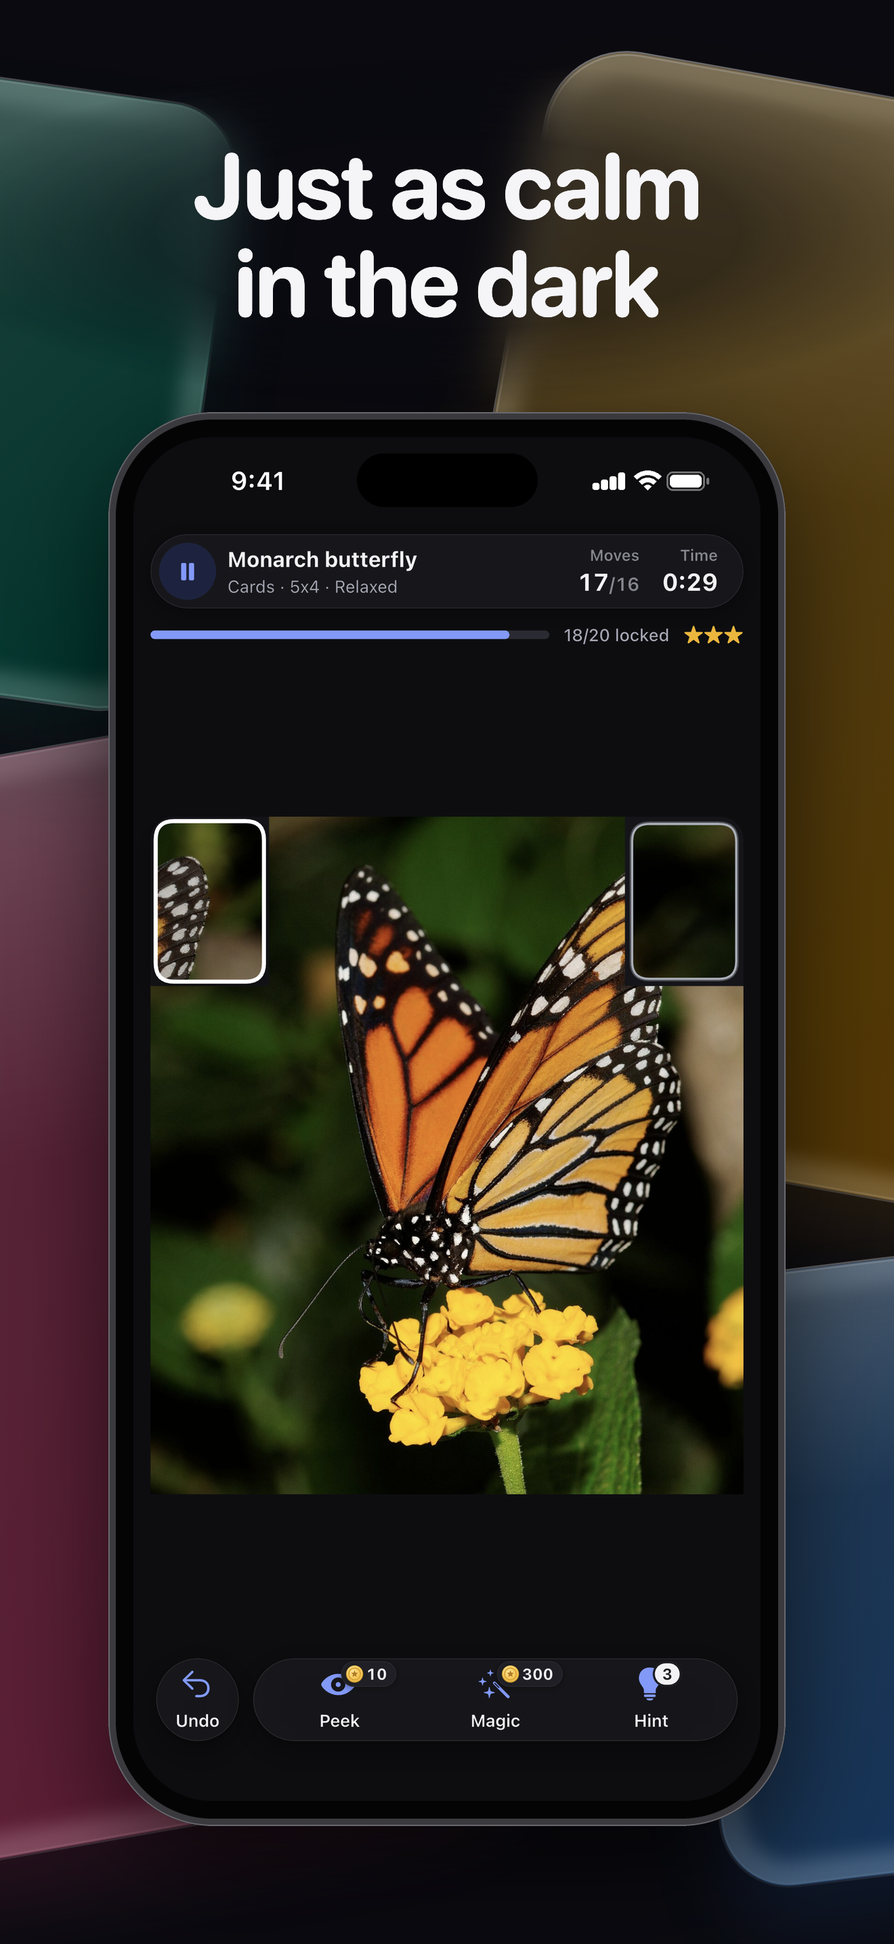
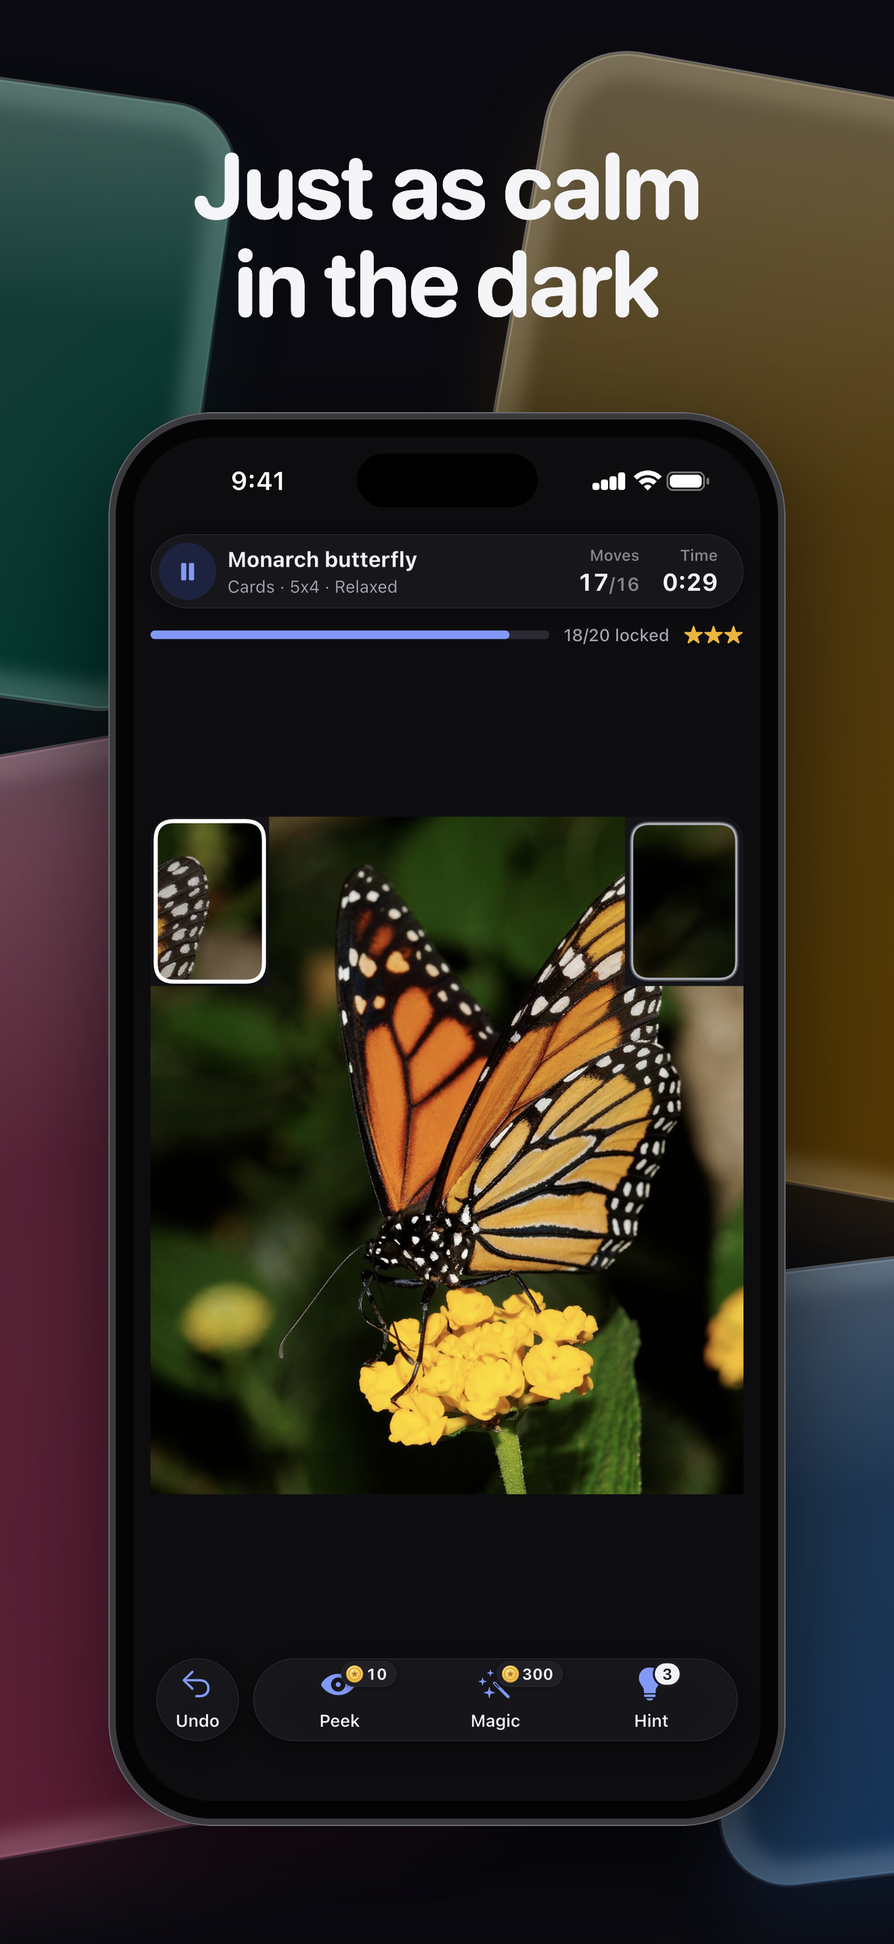
Store screenshots tell one story: new hero, Painting and giant boards, VIP as a benefit
The ten headlines now read as one text: Swap cards. Reveal the picture. / Thousands of pictures /
A new picture every day / One picture, four ways to cut it / Bring the colour back, card by card /
Giant boards of up to 300 cards / Puzzle your own photos / Quests and world-day events / Open every
pack with VIP / Just as calm in the dark.

- New captures in store_screenshots_test: 25_hero (Painted lady, 20 of 24 locked, two cards to
  swap), 26_painting (Monet's chrysanthemums, colour in the middle, grey around), 27_giant
  (Colourful Houses zoomed in with the overview map; the guest gets the pack's tickets) and
  28_library_more (locked packs for the VIP slide). CJW_STORE_ONLY=25_hero,... re-takes just those.
- Dropped the leaderboard (off-message for a calm game) and "Fewer moves, more stars" (a scoring
  rule); the finale keeps the dark Monarch, which slide 1 no longer uses.
- The frosted halo behind the headlines is gone (its blurred shape looked like a white blob).

Not uploaded to App Store Connect yet.

Changed region(s): [[0.5591, 0.031, 0.9629, 0.2172], [0.0932, 0.031, 0.2795, 0.1862]]

diff --git a/integration_test/store_screenshots_test.dart b/integration_test/store_screenshots_test.dart
@@ -25,6 +25,8 @@ import 'package:carden/features/game/board_widget.dart';
 import 'package:carden/game/board.dart';
 import 'package:carden/router.dart';
 import 'package:carden/state/auth.dart';
+import 'package:carden/state/catalog.dart';
+import 'package:carden/state/profile.dart';
 import 'package:carden/state/settings.dart';
 import 'package:carden/state/rewards.dart';
 import 'package:carden/state/unlocks.dart';
@@ -44,6 +46,13 @@ const modesPuzzle = 'p-00df45e91273'; // Tropical Beaches: Bora Bora lagoon
 const hexPuzzle = 'p-06ae2d7ad942'; // Sunsets: Key West sunset
 const galleryPack = 'pack-butterflies';
 
+/// The glass set (tools/store/compose_glass.py): a bright hero for slide 1, a Painting board for
+/// slide 5 (an Impressionist painting, so the colour coming back is the point), and a giant board
+/// of the real Giant pack for slide 6 (the guest gets the pack's tickets and unlocks it).
+const brightHeroPuzzle = 'p-e667552c4e66'; // Butterflies: Painted lady butterfly
+const paintingPuzzle = 'p-2f9f0b647f9f'; // Impressionists: Monet chrysanthemums
+const giantPack = 'pack-colourful-houses';
+
 /// Past days of the current daily month solved before the calendar capture
 /// (stars on their tiles). Ids are `daily-YYYY-MM-DD`.
 const dailyDaysToSolve = [1, 3, 6, 8, 10];
@@ -60,6 +69,11 @@ const theme = String.fromEnvironment('CJW_STORE_THEME', defaultValue: 'dark');
 /// (and their two captures) on a rerun, so live Storage gets no duplicates.
 const skipUpload = bool.fromEnvironment('CJW_STORE_SKIP_UPLOAD');
 const suffix = theme == 'light' ? '_light' : '';
+
+/// `--dart-define=CJW_STORE_ONLY=25_hero,27_giant` re-takes only those glass-set captures (25-28)
+/// after onboarding and leaves every other file as it is: a quick rerun for one slide.
+const only = String.fromEnvironment('CJW_STORE_ONLY');
+bool want(String name) => only.isEmpty || only.split(',').contains(name);
 
 Future<void> settle(WidgetTester tester, [int ms = 1500]) async {
   // The app has infinite animations (shimmer, pulses), so pump for a fixed time.
@@ -304,8 +318,8 @@ void main() {
 
   /// Opens a picture's difficulty screen, clears an earlier board of it,
   /// picks [mode] and [tier] and starts the game.
-  Future<void> startGame(WidgetTester tester, String puzzleId, String mode, String tier, {String? difficultyShot}) async {
-    await push(tester, '/play/$puzzleId', ms: 3500);
+  Future<void> startGame(WidgetTester tester, String puzzleId, String mode, String tier, {String? difficultyShot, bool painting = false}) async {
+    await push(tester, '/play/$puzzleId${painting ? '?painting=1' : ''}', ms: 3500);
     if (await tapIfShown(tester, 'Discard progress', ms: 900)) {
       await tapText(tester, 'Discard', ms: 1500);
     }
@@ -318,6 +332,10 @@ void main() {
     if (difficultyShot != null) await shot(tester, difficultyShot);
     await tester.tap(find.textContaining('Play'), warnIfMissed: false);
     await settle(tester, 6000);
+    // Giant pictures are 4096 px: the full-size download and decode take a moment longer.
+    for (var i = 0; i < 30 && boardFinder().evaluate().isEmpty; i++) {
+      await settle(tester, 500);
+    }
     await tapIfShown(tester, 'Got it');
     expect(boardFinder(), findsOneWidget, reason: 'board for $puzzleId $mode $tier');
   }
@@ -381,7 +399,77 @@ void main() {
       await tester.tapAt(const Offset(220, 80));
       await settle(tester, 1200);
     }
-    await shot(tester, '01_home');
+    if (only.isEmpty) await shot(tester, '01_home');
+
+    // Glass set, slide 1: a bright picture nearly whole on a 16-card board (few stray groups form
+    // while the rest goes home): one card loose and selected, one fused pair.
+    if (want('25_hero')) {
+      try {
+        await startGame(tester, brightHeroPuzzle, 'Cards', 'Relaxed');
+        final t = board(tester).tiling;
+        int at(int row, int col) => row * t.cols + col;
+        final pair = [at(t.rows - 2, t.cols - 2), at(t.rows - 2, t.cols - 1)];
+        final open = {at(1, 0), ...pair};
+        for (var round = 0; round < 3; round++) {
+          await lockAllBut(tester, open);
+        }
+        await buildGroup(tester, pair);
+        await selectOne(tester);
+        await shot(tester, '25_hero');
+        await saveAndQuit(tester);
+      } catch (e) {
+        await binding.takeScreenshot('zz_diag_hero');
+        await go(tester, '/home', ms: 2000);
+      }
+    }
+
+    // Glass set, slide 5: Painting on Monet's chrysanthemums, the middle in colour, the rest grey.
+    if (want('26_painting')) {
+      try {
+        await startGame(tester, paintingPuzzle, 'Cards', 'Medium', painting: true);
+        await lockMiddle(tester, (board(tester).cells * 0.6).round());
+        await shot(tester, '26_painting');
+        await saveAndQuit(tester);
+      } catch (e) {
+        await binding.takeScreenshot('zz_diag_painting');
+        await go(tester, '/home', ms: 2000);
+      }
+    }
+
+    // Glass set, slide 6: a giant board of the real Giant pack, its middle assembled, zoomed in one
+    // step so the overview map shows in the corner.
+    if (want('27_giant')) {
+      try {
+        final container = ProviderScope.containerOf(tester.element(find.byType(MaterialApp)));
+        final pack = (await container.read(packsProvider.future)).firstWhere((p) => p.id == giantPack);
+        final profile = container.read(profileProvider.notifier);
+        await profile.addTickets(pack.priceTickets, reason: 'qa:store-giant');
+        await settle(tester, 800);
+        await profile.unlockPack(pack);
+        final pictures = (await container.read(allPuzzlesProvider.future)).where((p) => p.packId == giantPack).toList();
+        await startGame(tester, pictures.first.id, 'Cards', 'Large');
+        await lockMiddle(tester, (board(tester).cells * 0.45).round());
+        await buildAnyGroup(tester);
+        await tester.tap(find.byKey(const ValueKey('zoom-in')), warnIfMissed: false);
+        await settle(tester, 1500);
+        await shot(tester, '27_giant');
+        await saveAndQuit(tester);
+      } catch (e) {
+        await binding.takeScreenshot('zz_diag_giant');
+        await go(tester, '/home', ms: 2000);
+      }
+    }
+    await go(tester, '/home', ms: 2000);
+    if (only.isNotEmpty) {
+      if (want('28_library_more')) {
+        await go(tester, '/library', ms: 3500);
+        await tester.drag(find.byType(Scrollable).first, const Offset(0, -900));
+        await settle(tester, 3000);
+        await shot(tester, '28_library_more');
+      }
+      return;
+    }
+
 
     // Hero: the Monarch on a 12-card board, mostly placed, one fused group,
     // one card lifted. Then finish it (pack progress, quest progress).
@@ -479,6 +567,12 @@ void main() {
     // Library, the daily calendar (top, then scrolled to the day grid), a pack.
     await go(tester, '/library', ms: 3500);
     await shot(tester, '15_library');
+    // Glass set, slide 9: further down the Library, the packs VIP opens (lock and price on each).
+    await tester.drag(find.byType(Scrollable).first, const Offset(0, -900));
+    await settle(tester, 3000);
+    await shot(tester, '28_library_more');
+    await tester.drag(find.byType(Scrollable).first, const Offset(0, 900));
+    await settle(tester, 1200);
     // The Daily chip sits past the screen's edge among the other chips; pick it the way a link does
     // (the row then scrolls it into view).
     ProviderScope.containerOf(tester.element(find.byType(MaterialApp))).read(libraryFilterProvider.notifier).select(LibraryFilter.daily);

diff --git a/tools/store/glass/slides.html b/tools/store/glass/slides.html
@@ -1,7 +1,7 @@
 <!doctype html>
 <!-- Carden App Store slides in the glass style. tools/store/compose_glass.py fills in __DATA__ and
      __FONT__ and renders one slide per #<number> at 1320 x 2868. The look lives here (glass panes,
-     halo, headline, phones, break-out cards, picture rows); the copy and slide list live in the script.
+     headline, phones, break-out cards, picture rows); the copy and slide list live in the script.
      The panes use the app icon's glass recipe (tools/brand/icon-glass.js): a see-through tinted body,
      a top sheen, a light edge zone, a rim of light, a crisp edge and a tinted shadow; on the white
      canvas the bodies multiply, so overlapping panes mix like stained glass. -->
@@ -10,16 +10,13 @@
 * { box-sizing: border-box; }
 html, body { margin: 0; background: transparent; }
 .slide { position: relative; width: 1320px; height: 2868px; overflow: hidden; background: #FFFFFF;
-  --ink: #111118; --halo: rgba(255,255,255,.66); --shade: rgba(28,30,60,.22); }
-.slide.dark { background: #0A0A10; --ink: #F5F5F8; --halo: rgba(10,10,16,.5); --shade: rgba(0,0,0,.6); }
+  --ink: #111118; --shade: rgba(28,30,60,.22); }
+.slide.dark { background: #0A0A10; --ink: #F5F5F8; --shade: rgba(0,0,0,.6); }
 .world { position: absolute; top: 0; }
 .body { mix-blend-mode: multiply; }
 .dark .body { mix-blend-mode: normal; filter: brightness(.42) saturate(1.45); }
 .dark .top { opacity: .42; }
 
-.halo { position: absolute; left: -120px; right: -120px; border-radius: 50%; background: var(--halo);
-  -webkit-backdrop-filter: blur(36px) saturate(1.2); backdrop-filter: blur(36px) saturate(1.2);
-  -webkit-mask-image: radial-gradient(closest-side, #000 55%, transparent 100%); mask-image: radial-gradient(closest-side, #000 55%, transparent 100%); }
 h1 { position: absolute; left: 70px; right: 70px; margin: 0; text-align: center; white-space: nowrap;
   font-family: "Head"; font-weight: var(--weight); line-height: 1.06; letter-spacing: var(--track); color: var(--ink); }
 .brand { position: absolute; left: 0; right: 0; display: flex; justify-content: center; align-items: center; gap: 24px; }
@@ -73,9 +70,7 @@ function render(size) {
   if (sl.layout === "B") { phoneTop = L.b_phone_top; headTop = phoneTop + S.phone_h + L.b_gap; }
   else { headTop = sl.brand ? L.a_head_top_brand : L.a_head_top; phoneTop = headTop + lines * lh + L.a_gap; }
   const pics = (sl.pics || []).map(c => `<img class="pic" src="${c.src}" style="left:${c.x}px;top:${c.y}px;width:${c.w}px;height:${c.h}px;border-radius:${c.radius}px;transform:rotate(${c.r}deg)">`).join("");
-  h += pics;  // floating covers and picture rows sit behind the halo and the phone
-  const haloTop = headTop - (sl.brand ? 230 : 110), haloH = lines * lh + (sl.brand ? 340 : 220);
-  h += `<div class="halo" style="top:${haloTop}px;height:${haloH}px"></div>`;
+  h += pics;  // floating covers and picture rows sit behind the headline and the phone
   if (sl.brand) h += `<div class="brand" style="top:${headTop - 190}px"><img src="${S.icon}"><span>Carden</span></div>`;
   h += `<h1 style="top:${headTop}px;font-size:${size}px">${sl.head.replace(/\n/g, "<br>")}</h1>`;
   const tilt = sl.tilt || 0, left = (W - S.phone_w) / 2 + (tilt ? (tilt < 0 ? -40 : 40) : 0);

diff --git a/tools/store/compose_glass.py b/tools/store/compose_glass.py
@@ -44,30 +44,48 @@ W, H = cs.W, cs.H
 # Headlines: 2 lines, about five words; "\n" breaks the line. No subtext (illegible in search).
 
 DAILY = "18_daily_month_grid"
-STARRED = [(62, 840, 340, 1176), (674, 840, 952, 1176), (368, 1208, 646, 1546), (980, 1208, 1258, 1546), (368, 1576, 646, 1914)]
+# Crop boxes (capture px) of the newer captures; check them after a recapture.
+# 26_painting: a 5x5 board; a grey loose card (top-left cell) and a locked one in colour (centre cell).
+PAINTING_OUT = [{"crop": ("26_painting", (36, 582, 286, 837)), "x": -40, "y": 1500, "w": 300, "rot": -7, "radius": 26, "label": "Loose"},
+                {"crop": ("26_painting", (536, 1092, 785, 1347)), "x": 740, "y": 1440, "w": 300, "rot": 6, "radius": 26, "label": "Locked"}]
+# 27_giant: the overview map in the board's corner, enlarged over itself.
+GIANT_OUT = [{"crop": ("27_giant", (1000, 666, 1256, 1050)), "w": 440, "radius": 36}]
+# 28_library_more: four locked pack tiles (cover, name, lock and price).
+LOCKED_PACKS = [(62, 540, 640, 1290), (680, 540, 1258, 1290), (62, 1320, 640, 2070), (680, 1320, 1258, 2070)]
 
+# The story (2026-10-16): the hook (1-3: how it plays, how much there is, why you come back; the
+# three that search results show), the depth (4-8: ways to play that grow with you, ending on the
+# personal one), the close (9 VIP, 10 the dark finale). Read in order, the headlines are one text.
 SLIDES = [
-    {"layout": "A", "head": "Swap cards.\nReveal the picture.", "phone": "03_game_cards", "brand": True},
+    # 1. The mechanic and the payoff in one look: a bright picture nearly whole, a group joined.
+    {"layout": "A", "head": "Swap cards.\nReveal the picture.", "phone": "25_hero", "brand": True},
+    # 2. How much there is: the Library, covers from every category beside it and in a row below.
     {"layout": "B", "head": "Thousands\nof pictures", "phone": "15_library",
-     "pics": [{"covers": [0, 3, 6, 9], "spots": [(-50, 300, 330, -8), (1040, 230, 380, 7), (-70, 1120, 330, 6), (1060, 1060, 380, -6)]},
-              {"covers": [12, 15, 18, 1, 4], "fan": {"w": 228, "h": 296, "top": 2480, "step": 244, "spread": 9, "drop": 50}}]},
+     "pics": [{"covers": [0, 2, 5, 10], "spots": [(-50, 300, 330, -8), (1040, 230, 380, 7), (-70, 1120, 330, 6), (1060, 1060, 380, -6)]},
+              {"covers": [12, 3, 1, 19, 15], "fan": {"w": 228, "h": 296, "top": 2480, "step": 244, "spread": 9, "drop": 50}}]},
+    # 3. Why you come back: this month's calendar, today's picture lifted out.
     {"layout": "A", "head": "A new picture\nevery day", "phone": DAILY,
      "out": [{"crop": (DAILY, (60, 530, 1260, 775)), "w": 1180, "radius": 44}]},
-    {"layout": "C", "head": "Four ways\nto play", "phone": "09_mode_hexagons", "tilt": -7,
+    # 4. The signature: one lagoon cut four ways.
+    {"layout": "C", "head": "One picture,\nfour ways to cut it", "phone": "09_mode_hexagons", "tilt": -7,
      "out": [{"crop": ("06_mode_cards", "board"), "x": -60, "y": 880, "w": 430, "rot": -9, "label": "Cards"},
              {"crop": ("07_mode_squares", "board"), "x": 690, "y": 560, "w": 400, "rot": 8, "label": "Squares"},
              {"crop": ("08_mode_triangles", "board"), "x": 680, "y": 1440, "w": 400, "rot": 5, "label": "Triangles"}]},
+    # 5. Painting: Monet's chrysanthemums, locked cards in colour, loose ones grey.
+    {"layout": "A", "head": "Bring the colour\nback, card by card", "phone": "26_painting", "out": PAINTING_OUT},
+    # 6. Giant boards: the middle assembled, zoomed in, the overview map lifted out.
+    {"layout": "C", "head": "Giant boards of\nup to 300 cards", "phone": "27_giant", "tilt": 7, "out": GIANT_OUT},
+    # 7. The personal one: your own photos, one played as a puzzle.
     {"layout": "A", "head": "Puzzle your\nown photos", "phone": "20_my_puzzles",
      "out": [{"crop": ("21_my_puzzle_game", "board"), "x": 540, "y": 1060, "w": 560, "rot": 4, "radius": 40}]},
-    {"layout": "B", "head": "Fewer moves,\nmore stars", "phone": "04_complete",
-     "out": [{"crop": ("04_complete", (40, 1400, 1280, 1890)), "w": 1200, "radius": 48}],
-     "pics": [{"crops": [(DAILY, b) for b in STARRED], "fan": {"w": 228, "h": 276, "top": 2480, "step": 250, "spread": 8, "drop": 44}, "radius": 22}]},
-    {"layout": "C", "head": "Quests and\nlive events", "phone": "13_quests", "tilt": 7,
+    # 8. Quests, with a world-day event lifted out.
+    {"layout": "C", "head": "Quests and\nworld-day events", "phone": "13_quests", "tilt": -7,
      "out": [{"crop": ("14_quests_live", (60, 1440, 1260, 2480)), "x": 50, "y": 1180, "w": 900, "radius": 44}]},
-    {"layout": "A", "head": "Climb the\nleaderboard", "phone": "22_social_league",
-     "out": [{"crop": ("22_social_league", (60, 720, 1260, 1200)), "w": 1180, "radius": 48}]},
-    {"layout": "C", "head": "Every pack\nwith VIP", "phone": "12_store_vip", "tilt": -7,
-     "out": [{"crop": ("12_store_vip", (60, 670, 1260, 990)), "w": 1080, "radius": 40}]},
+    # 9. VIP as a benefit: the trial lifted out, the packs it opens in a row below.
+    {"layout": "B", "head": "Open every pack\nwith VIP", "phone": "12_store_vip",
+     "out": [{"crop": ("12_store_vip", (60, 670, 1260, 990)), "w": 1080, "radius": 40}],
+     "pics": [{"crops": [("28_library_more", b) for b in LOCKED_PACKS], "fan": {"w": 236, "h": 306, "top": 2440, "step": 272, "spread": 7, "drop": 40}, "radius": 26}]},
+    # 10. The finale: the same calm in dark mode (the Monarch, which slide 1 no longer uses).
     {"layout": "A", "head": "Just as calm\nin the dark", "phone": "03_game_cards", "dark": True},
 ]
 

diff --git a/store/README.md b/store/README.md
@@ -29,15 +29,15 @@ daily hook.
 
 | Slide | Headline | Layout | Shows (light captures unless noted) |
 | --- | --- | --- | --- |
-| `01.png` | Swap cards. Reveal the picture. | A + icon | `raw/03_game_cards`: Monarch butterfly, most cards placed |
+| `01.png` | Swap cards. Reveal the picture. | A + icon | `raw/25_hero`: Painted lady butterfly, 20 of 24 cards locked, two left to swap |
 | `02.png` | Thousands of pictures | B | `raw/15_library`, pack covers (`collage/`) beside it and in a row below |
 | `03.png` | A new picture every day | A | `raw/18_daily_month_grid`, today's card lifted out |
-| `04.png` | Four ways to play | C, -7 deg | `raw/09_mode_hexagons`, with the cards, squares and triangles boards (`raw/06`-`08`) lifted out |
-| `05.png` | Puzzle your own photos | A | `raw/20_my_puzzles`, the Corgi board of `raw/21_my_puzzle_game` lifted out |
-| `06.png` | Fewer moves, more stars | B | `raw/04_complete`, Picture complete lifted out; a row of solved daily pictures with stars below |
-| `07.png` | Quests and live events | C, +7 deg | `raw/13_quests`, the World Food Day event of `raw/14_quests_live` lifted out |
-| `08.png` | Climb the leaderboard | A | `raw/22_social_league` (real player names, approved by the owner), the podium lifted out |
-| `09.png` | Every pack with VIP | C, -7 deg | `raw/12_store_vip`, the 7-day trial lifted out |
+| `04.png` | One picture, four ways to cut it | C, -7 deg | `raw/09_mode_hexagons`, with the cards, squares and triangles boards (`raw/06`-`08`) lifted out |
+| `05.png` | Bring the colour back, card by card | A | `raw/26_painting`: Monet's chrysanthemums in Painting, a loose grey card and a locked one lifted out |
+| `06.png` | Giant boards of up to 300 cards | C, +7 deg | `raw/27_giant`: Colourful Houses zoomed in, the overview map lifted out |
+| `07.png` | Puzzle your own photos | A | `raw/20_my_puzzles`, the Corgi board of `raw/21_my_puzzle_game` lifted out |
+| `08.png` | Quests and world-day events | C, -7 deg | `raw/13_quests`, the World Food Day event of `raw/14_quests_live` lifted out |
+| `09.png` | Open every pack with VIP | B | `raw/12_store_vip`, the 7-day trial lifted out, four locked packs of `raw/28_library_more` below |
 | `10.png` | Just as calm in the dark | A, dark | `raw/03_game_cards` in the dark theme |
 
 Raw captures (dark theme; a `--dart-define=CJW_STORE_THEME=light` run writes
@@ -84,6 +84,8 @@ simulator, and a Python 3 with Pillow (`pip install pillow`).
    tools/dev/qa-run.sh drive --driver=test_driver/store_screenshots.dart \
      --target=integration_test/store_screenshots_test.dart \
      -d D03644FB-6169-4E87-8E0F-CCFC884FBE78
+   # only some glass-set captures (25_hero, 26_painting, 27_giant, 28_library_more), others kept:
+   #   add --dart-define=CJW_STORE_ONLY=25_hero,27_giant (about 4 minutes instead of 13)
    # the light theme, written as raw/<name>_light.png (slides 1-9 of the glass set):
    tools/dev/qa-run.sh drive --driver=test_driver/store_screenshots.dart \
      --target=integration_test/store_screenshots_test.dart \

diff --git a/docs/store-screenshots.md b/docs/store-screenshots.md
@@ -25,19 +25,30 @@ in `tools/store/glass/slides.html`, then rerun the script.
   slide stands alone: only the background crosses a seam. The dark finale draws
   the same panes as deep jewel tones.
 - **One phone size** everywhere: 1,000 px wide on the 1,320 px canvas.
-- **Three layouts:** A headline on top with a flat phone (1, 3, 5, 8, 10); B phone
+- **The story:** the hook (1-3: how it plays, how much there is, why you come
+  back; the three that search results show), the depth (4-8: four ways to cut a
+  picture, Painting, giant boards, your own photos, quests and world-day events),
+  the close (9: what VIP opens, 10: the dark finale). Read in order the headlines
+  are one text: "Swap cards. Reveal the picture. Thousands of pictures. A new
+  picture every day. One picture, four ways to cut it. Bring the colour back,
+  card by card. Giant boards of up to 300 cards. Puzzle your own photos. Quests
+  and world-day events. Open every pack with VIP. Just as calm in the dark." The
+  leaderboard and "Fewer moves, more stars" slides were dropped: competition is
+  off-message for a calm game, and a scoring rule is not a reason to download.
+- **Three layouts:** A headline on top with a flat phone (1, 3, 5, 7, 10); B phone
   from the top edge, the headline below and a neat row of pictures under it (2:
-  pack covers, 6: solved pictures with their stars); C a phone tilted 7 degrees,
-  alternating direction (4, 7, 9). Slides 1-3 stay flat, since search results
+  pack covers, 9: the locked packs VIP opens); C a phone tilted 7 degrees,
+  alternating direction (4, 6, 8). Slides 1-3 stay flat, since search results
   show them as thumbnails.
 - **Break-out cards** lift one real part of the app out of the phone (today's
-  puzzle, the other three shapes, your own photo, Picture complete, the live
-  event, the podium, the VIP trial). A card that enlarges part of the same screen
+  puzzle, the other three shapes, a loose and a locked Painting card, the giant
+  board's map, your own photo, the live event, the VIP trial). A card that enlarges part of the same screen
   sits centred over that part, and every card shares its phone's frame, so it
   tilts with a tilted phone.
 - **Headlines only:** 2 lines of about five words, 136 px (a slide shrinks only
-  if a line would pass 1,180 px), on a soft frosted halo. No subtext: it is
-  unreadable at thumbnail size.
+  if a line would pass 1,180 px), straight on the glass (no halo or glow behind
+  them; the owner found its blurred shape ugly). No subtext: it is unreadable at
+  thumbnail size.
 - **Headline face:** SF Pro Rounded by default (`--font display` and
   `--font newyork` render the alternatives).
 
